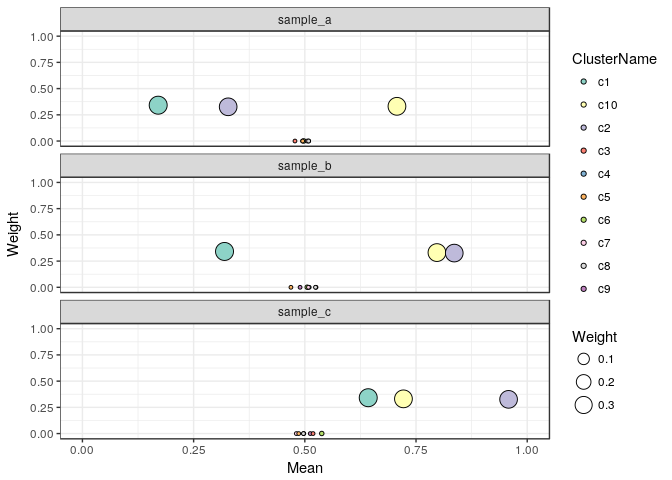
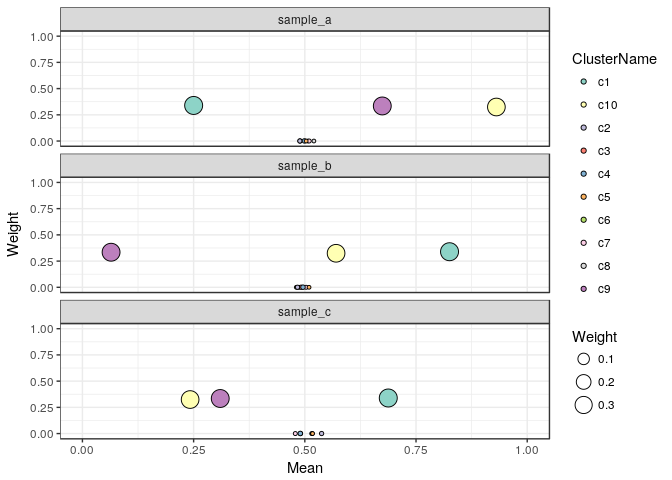
Added the option to plotmarginals on for snv and cluster AF scatterplots.

diff --git a/README.md b/README.md
@@ -37,6 +37,15 @@ many samples in it.
 
     ## Loading required package: reshape2
 
+    ## Loading required package: cowplot
+
+    ## 
+    ## Attaching package: 'cowplot'
+
+    ## The following object is masked from 'package:ggplot2':
+    ## 
+    ##     ggsave
+
     theModel <- createJagsModel(nSamples = 3)
     cat(theModel)
 
@@ -78,21 +87,21 @@ We can simulate some data to demonstrate the modelling functionality:
 
     ## $Coverage
     ##       sample_a sample_b sample_c
-    ## snv_1       52      126      184
-    ## snv_2       67      119      162
-    ## snv_3       59      135      191
-    ## snv_4       61      128      190
-    ## snv_5       52      114      182
-    ## snv_6       53      112      161
+    ## snv_1       63       98      173
+    ## snv_2       55      116      189
+    ## snv_3       53      113      187
+    ## snv_4       61      118      210
+    ## snv_5       61      115      168
+    ## snv_6       57      124      142
     ## 
     ## $Support
     ##       sample_a sample_b sample_c
-    ## snv_1        9       41      117
-    ## snv_2       20      104      154
-    ## snv_3       36       98      140
-    ## snv_4       11       45      120
-    ## snv_5       25       93      169
-    ## snv_6       39       91      113
+    ## snv_1       20       79      129
+    ## snv_2       38        6       56
+    ## snv_3       49       57       49
+    ## snv_4       11       94      146
+    ## snv_5       39        9       50
+    ## snv_6       57       68       28
 
 Modelling
 =========
@@ -143,9 +152,29 @@ weights close to 0.
 ![](README_files/figure-markdown_strict/unnamed-chunk-7-1.png)
 
 The density version of this plot is not very helpful in this case of
-simulate data, which are not very noisy at all, this can be more
-infomrative if your clusters show a wide spread or strangely shaped
-clouds, to determine the underlying density.
+simulated data, which are not very noisy at all, this can be more
+informative if your clusters show a wide spread or strangely shaped
+clouds, to determine the underlying density. If the coverage is lower
+the data becomes more noisy and if the number of SNVs is lower the
+clusters will also be less well-defined, an example is shown below:
+
+    sDatNoisy <- simulateData(nSamples = 3, nSNVs = 40, nClusters = 3, meanCoverage = c(20, 30, 40))
+    clusteringResultNoisy <- clusterSamples(sDatNoisy)
+
+    ## Compiling model graph
+    ##    Resolving undeclared variables
+    ##    Allocating nodes
+    ## Graph information:
+    ##    Observed stochastic nodes: 120
+    ##    Unobserved stochastic nodes: 82
+    ##    Total graph size: 519
+    ## 
+    ## Initializing model
+
+    cp <- plotClusters(clusteringResultNoisy, mode = "density2d") + scale_fill_brewer(palette = "Set3")
+    cp
+
+![](README_files/figure-markdown_strict/unnamed-chunk-8-1.png)
 
 SNV Cluster assignment Plot
 ---------------------------
@@ -153,20 +182,32 @@ SNV Cluster assignment Plot
 Another way to look at this is to plot the SNVs annotated with the
 clusters they were assigned to:
 
-    plotResultSNVs(clusteringResult, mode = "point") + scale_fill_brewer(palette = "Set3")
+    sp <- plotResultSNVs(clusteringResult, mode = "point") + scale_fill_brewer(palette = "Set3")
+    sp
 
-![](README_files/figure-markdown_strict/unnamed-chunk-8-1.png)
+![](README_files/figure-markdown_strict/unnamed-chunk-9-1.png)
 
 It can be useful to look at this as a density plot, in case too many
 points overlap and it is not easy to make out the shape and local
 density of the clusters.
 
-    plotResultSNVs(clusteringResult, mode = "density2d") + scale_fill_brewer(palette = "Set3")
+    sp <- plotResultSNVs(clusteringResult, mode = "density2d") + scale_fill_brewer(palette = "Set3")
+    sp
 
-![](README_files/figure-markdown_strict/unnamed-chunk-9-1.png)
+![](README_files/figure-markdown_strict/unnamed-chunk-10-1.png)
 
 Here we see our three clusters of simulated SNVs and their respective
 allelic frequencies in the three samples.
+
+Sometimes it can be interesting to add marginal distribution densities
+to those plots as well:
+
+    addMarginals(sp, scale_fill_brewer(palette = "Set3"))
+
+    ## Scale for 'fill' is already present. Adding another scale for 'fill',
+    ## which will replace the existing scale.
+
+![](README_files/figure-markdown_strict/unnamed-chunk-11-1.png)
 
 JAGS model chain plots
 ----------------------
@@ -178,7 +219,7 @@ estimate.
 
     plotChains(clusteringResult, minWeight = 0.01) + ylim(0,1) + scale_colour_brewer(palette = "Set3")
 
-![](README_files/figure-markdown_strict/unnamed-chunk-10-1.png)
+![](README_files/figure-markdown_strict/unnamed-chunk-12-1.png)
 
 We see that the model has converged very well and in all samples the
 clusters are very stable in their respective estimated alelle
@@ -196,4 +237,4 @@ distribution between `0` and `1`, which is expected.
 
     plotChains(clusteringResult, minWeight = 0) + ylim(0,1) + scale_colour_brewer(palette = "Set3")
 
-![](README_files/figure-markdown_strict/unnamed-chunk-11-1.png)
+![](README_files/figure-markdown_strict/unnamed-chunk-13-1.png)
